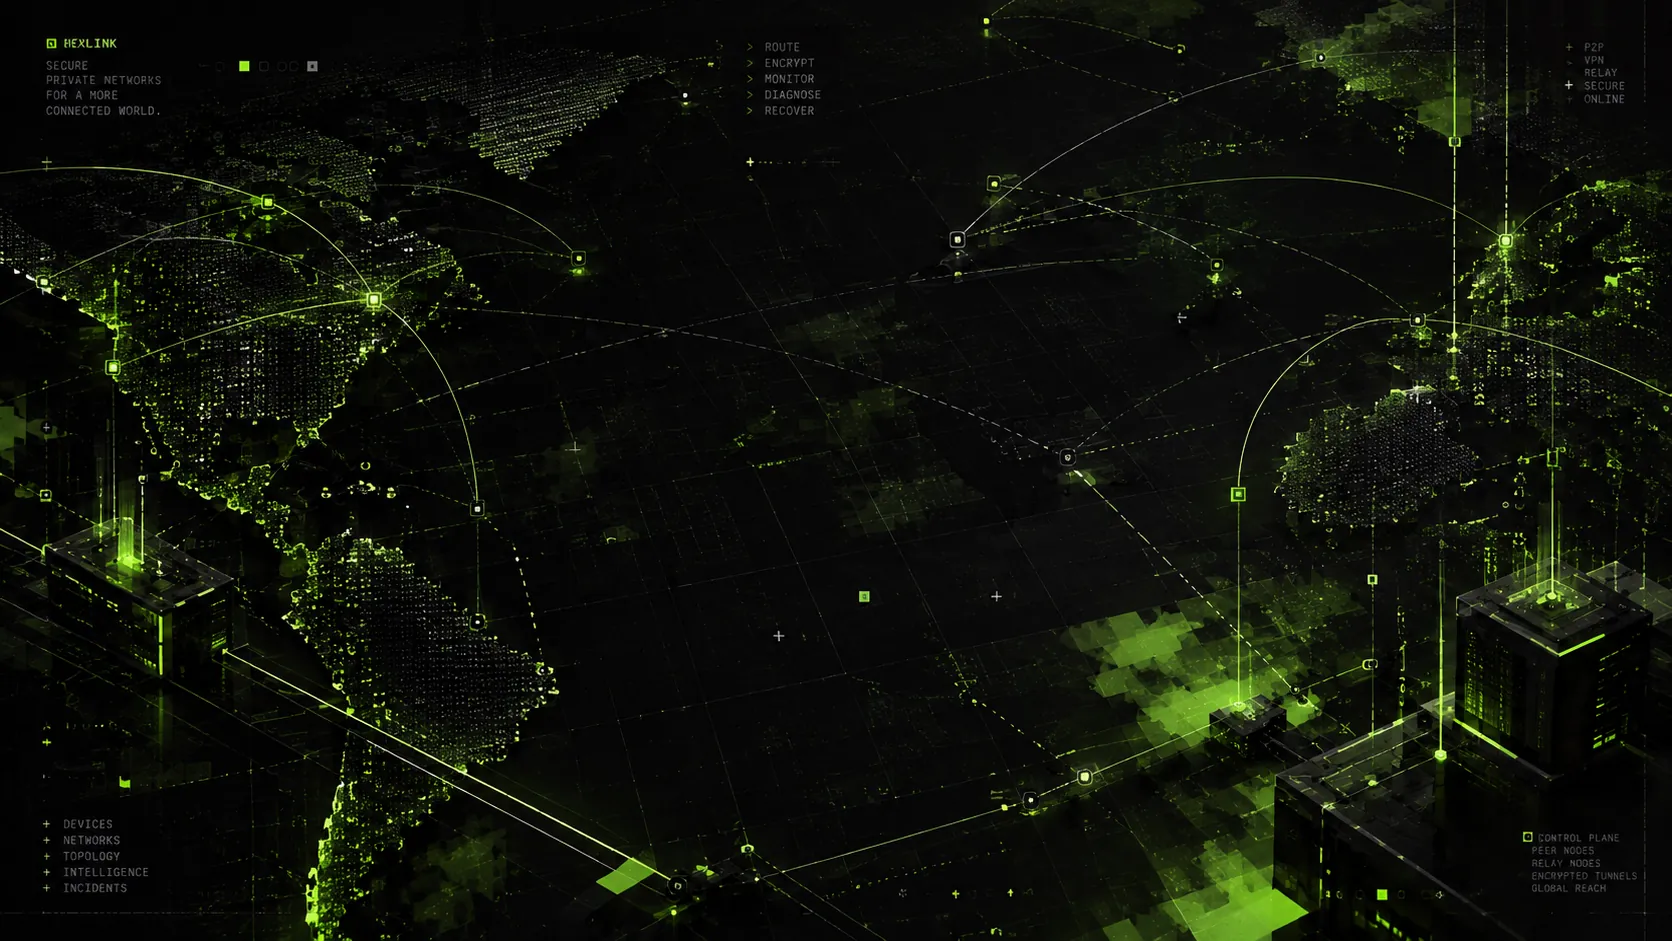
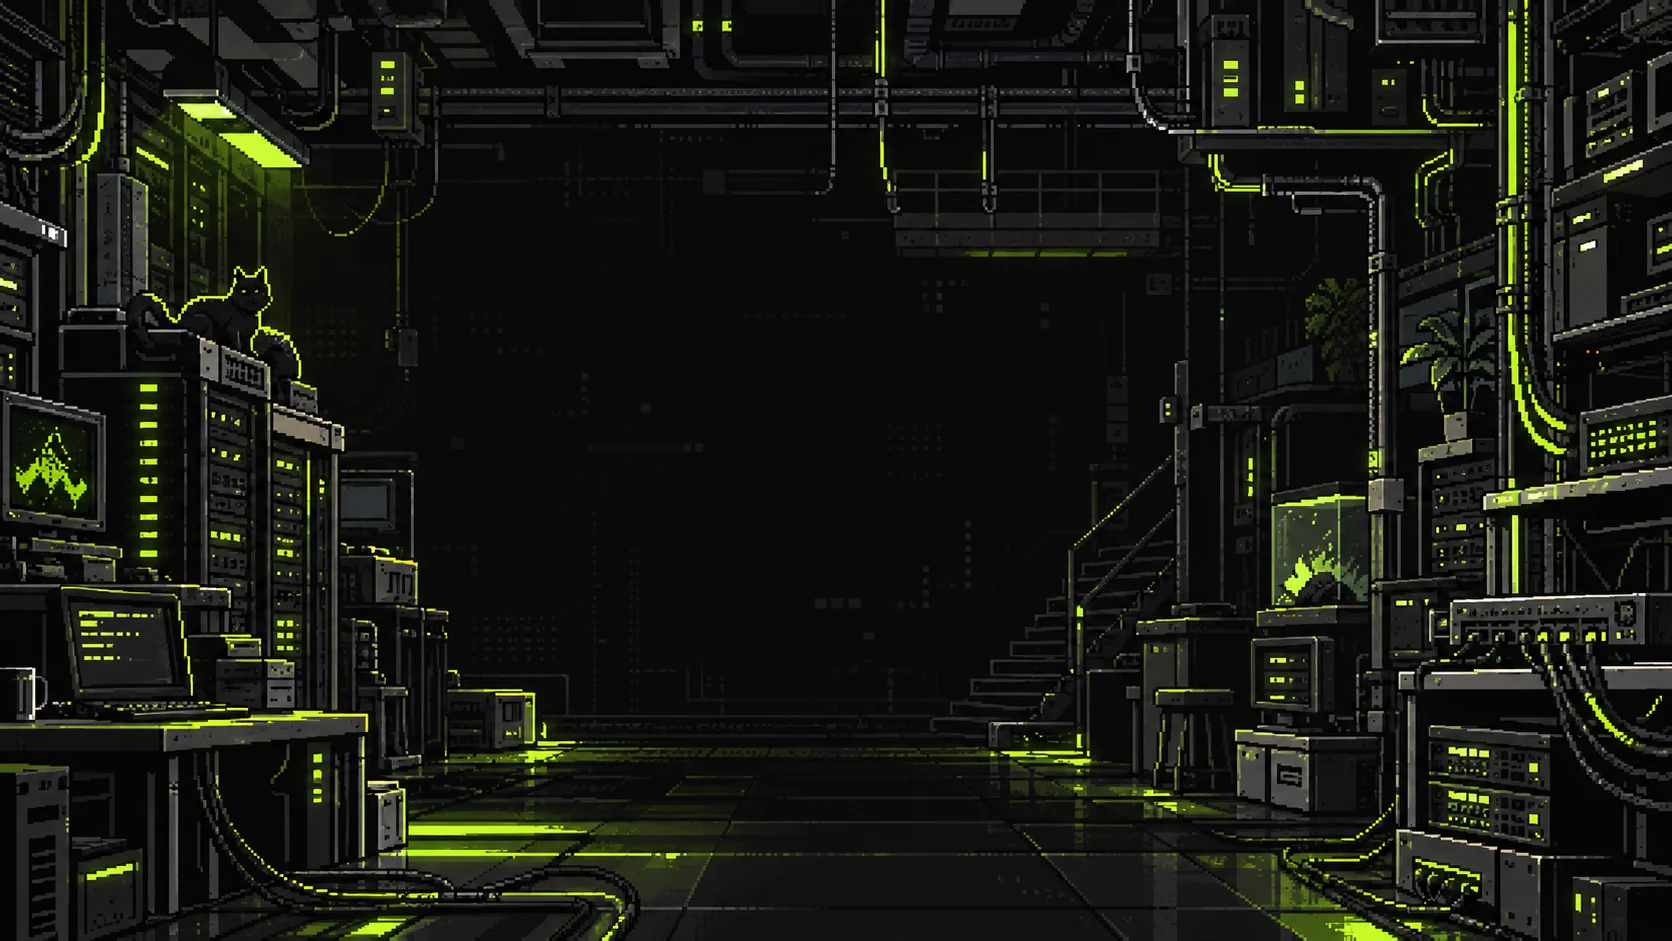
feat: add neo-brutalist styling, background assets, and layout shell

diff --git a/web/components/Shell.js b/web/components/Shell.js
@@ -3,8 +3,8 @@
 import Image from 'next/image';
 import Link from 'next/link';
 import { usePathname } from 'next/navigation';
-import { useEffect, useState } from 'react';
-import { Activity, CheckSquare, Cpu, LogOut, Menu, Network, Plus, Radio, ScrollText, Share2, Sparkles, Stethoscope, X } from 'lucide-react';
+import { useEffect, useRef, useState } from 'react';
+import { Activity, CheckSquare, Cpu, LogOut, Menu, Network, PanelLeftClose, PanelLeftOpen, Plus, Radio, ScrollText, Share2, Sparkles, Stethoscope, X } from 'lucide-react';
 import { useAuth } from './AuthProvider';
 import { useLiveStatus } from '@/hooks/useApi';
 import { Loading } from './ui';
@@ -47,13 +47,15 @@ const PAGE_NAMES = [
 ];
 
 // Real state of the Socket.IO channel — nothing here is decorative.
+const SIDEBAR_KEY = 'nexlink.sidebar';
+
 const LIVE = {
   live: { text: 'live', dot: 'bg-lime', hint: 'Socket.IO channel open: pages refresh on events' },
   connecting: { text: 'connecting', dot: 'border border-mid', hint: 'opening the live channel' },
   disconnected: { text: 'polling', dot: 'bg-amber', hint: 'live channel down: pages refresh on a timer' },
 };
 
-function NavList({ can, active, onNavigate }) {
+function NavList({ can, active, onNavigate, collapsed = false }) {
   return (
     <nav aria-label="Main" className="flex flex-col gap-5">
       {GROUPS.map((g, gi) => {
@@ -61,12 +63,15 @@ function NavList({ can, active, onNavigate }) {
         if (!items.length) return null;
         return (
           <div key={g.label || gi}>
-            {g.label && (
-              <div className="mb-2 flex items-center gap-2 px-2.5 font-pixel text-[8px] uppercase leading-none text-white/50">
-                <span aria-hidden className="h-px w-3 bg-white/30" />
-                {g.label}
-              </div>
-            )}
+            {g.label &&
+              (collapsed ? (
+                <div aria-hidden className="mx-auto mb-2 h-px w-6 bg-white/25" />
+              ) : (
+                <div className="mb-2 flex items-center gap-2 whitespace-nowrap px-2.5 font-pixel text-[8px] uppercase leading-none text-white/50">
+                  <span aria-hidden className="h-px w-3 bg-white/30" />
+                  {g.label}
+                </div>
+              ))}
             <ul className="flex flex-col">
               {items.map(({ href, label, icon: Icon, hint }) => {
                 const on = active(href);
@@ -75,15 +80,15 @@ function NavList({ can, active, onNavigate }) {
                     <Link
                       href={href}
                       onClick={onNavigate}
-                      title={hint}
+                      title={collapsed ? hint || label : hint}
                       aria-current={on ? 'page' : undefined}
-                      className={`flex h-9 items-center gap-3 px-2.5 font-pixel text-[9.5px] uppercase leading-none transition-colors duration-100 ${
-                        on ? 'bg-lime font-semibold text-ink' : 'text-white/65 hover:bg-white/[0.04] hover:text-white'
-                      }`}
+                      className={`flex h-9 items-center gap-3 whitespace-nowrap font-pixel text-[9.5px] uppercase leading-none transition-colors duration-100 ${
+                        collapsed ? 'justify-center px-0' : 'px-2.5'
+                      } ${on ? 'bg-lime font-semibold text-ink' : 'text-white/65 hover:bg-white/[0.04] hover:text-white'}`}
                     >
                       <Icon className="h-4 w-4 shrink-0" strokeWidth={on ? 2.25 : 1.75} aria-hidden />
-                      {label}
-                      {on && <span aria-hidden className="ml-auto font-mono text-[11px]">◂</span>}
+                      <span className={collapsed ? 'sr-only' : ''}>{label}</span>
+                      {on && !collapsed && <span aria-hidden className="ml-auto font-mono text-[11px]">◂</span>}
                     </Link>
                   </li>
                 );
@@ -96,14 +101,15 @@ function NavList({ can, active, onNavigate }) {
         <Link
           href="/activate"
           onClick={onNavigate}
+          title={collapsed ? 'add a device' : undefined}
           aria-current={active('/activate') || active('/setup') ? 'page' : undefined}
-          className={`flex h-10 items-center gap-3 border px-2.5 font-pixel text-[9.5px] uppercase leading-none transition-[transform,box-shadow,background-color] duration-100 ${
+          className={`flex h-10 items-center gap-3 whitespace-nowrap border ${collapsed ? 'justify-center px-0' : 'px-2.5'} font-pixel text-[9.5px] uppercase leading-none transition-[transform,box-shadow,background-color] duration-100 ${
             active('/activate') || active('/setup')
               ? 'border-lime bg-lime text-ink'
               : 'border-white bg-white text-ink hover:-translate-x-px hover:-translate-y-px hover:shadow-[3px_3px_0_0_var(--color-lime)]'
           }`}
         >
-          <Plus className="h-4 w-4" strokeWidth={2.25} aria-hidden /> add a device
+          <Plus className="h-4 w-4 shrink-0" strokeWidth={2.25} aria-hidden /> <span className={collapsed ? 'sr-only' : ''}>add a device</span>
         </Link>
       )}
     </nav>
@@ -120,11 +126,11 @@ function LiveChip({ live }) {
   );
 }
 
-function Brand() {
+function Brand({ collapsed = false }) {
   return (
-    <Link href="/" className="flex items-center gap-2.5 px-2" aria-label="NexLink overview">
-      <Image src="/logo-mark.png" alt="" width={30} height={30} priority className="h-[30px] w-[30px]" />
-      <span className="font-pixel text-[13px] uppercase leading-none">nexlink</span>
+    <Link href="/" className={`flex items-center gap-2.5 ${collapsed ? 'justify-center' : 'px-2'}`} aria-label="NexLink overview">
+      <Image src="/logo-mark.png" alt="" width={30} height={30} priority className="h-[30px] w-[30px] shrink-0" />
+      {!collapsed && <span className="whitespace-nowrap font-pixel text-[13px] uppercase leading-none">nexlink</span>}
     </Link>
   );
 }
@@ -150,6 +156,35 @@ export default function Shell({ children }) {
   const live = useLiveStatus(Boolean(user));
   const [drawer, setDrawer] = useState(false);
   useEffect(() => setDrawer(false), [pathname]);
+  // Desktop sidebar slides between full width and an icon rail; remembered per browser.
+  const [collapsed, setCollapsed] = useState(false);
+  useEffect(() => {
+    try {
+      setCollapsed(localStorage.getItem(SIDEBAR_KEY) === 'collapsed');
+    } catch {}
+  }, []);
+  function toggleSidebar() {
+    setCollapsed((c) => {
+      try {
+        localStorage.setItem(SIDEBAR_KEY, c ? 'open' : 'collapsed');
+      } catch {}
+      return !c;
+    });
+  }
+  // Ctrl/Cmd+B toggles the sidebar; Escape closes the mobile drawer.
+  useEffect(() => {
+    const onKey = (e) => {
+      if ((e.ctrlKey || e.metaKey) && e.key.toLowerCase() === 'b' && !e.target.closest?.('input, textarea, select, [contenteditable]')) {
+        e.preventDefault();
+        toggleSidebar();
+      }
+      if (e.key === 'Escape') setDrawer(false);
+    };
+    window.addEventListener('keydown', onKey);
+    return () => window.removeEventListener('keydown', onKey);
+  }, []);
+  // Swipe left on the open drawer to slide it away.
+  const touchX = useRef(null);
 
   if (loading || !user) {
     return (
@@ -165,12 +200,27 @@ export default function Shell({ children }) {
 
   return (
     <div className="flex min-h-screen">
-      <aside className="sticky top-0 hidden h-screen w-[232px] shrink-0 flex-col gap-7 border-r border-line bg-ink/80 px-3 py-5 backdrop-blur-md md:flex">
-        <Brand />
-        <div className="flex-1 overflow-y-auto scrollbar-thin">
-          <NavList can={can} active={active} />
+      <aside
+        id="sidebar"
+        className={`sticky top-0 hidden h-screen shrink-0 flex-col gap-7 overflow-hidden border-r border-line bg-ink/80 py-5 backdrop-blur-md transition-[width,padding] duration-200 ease-out motion-reduce:transition-none md:flex ${
+          collapsed ? 'w-[68px] px-2.5' : 'w-[232px] px-3'
+        }`}
+      >
+        <Brand collapsed={collapsed} />
+        <div className="flex-1 overflow-y-auto overflow-x-hidden scrollbar-thin">
+          <NavList can={can} active={active} collapsed={collapsed} />
         </div>
-        <div className="border-t border-line px-2 pt-3 font-pixel text-[7px] uppercase leading-relaxed text-white/55">wireguard · e2e encrypted</div>
+        <button
+          type="button"
+          onClick={toggleSidebar}
+          aria-controls="sidebar"
+          aria-expanded={!collapsed}
+          title={`${collapsed ? 'Expand' : 'Collapse'} sidebar (Ctrl+B)`}
+          className={`flex h-9 items-center gap-3 whitespace-nowrap border-t border-line pt-3 font-pixel text-[7px] uppercase leading-none text-white/55 hover:text-lime ${collapsed ? 'justify-center' : 'px-2'}`}
+        >
+          {collapsed ? <PanelLeftOpen className="h-4 w-4 shrink-0" aria-hidden /> : <PanelLeftClose className="h-4 w-4 shrink-0" aria-hidden />}
+          <span className={collapsed ? 'sr-only' : ''}>{collapsed ? 'expand sidebar' : 'collapse · wireguard e2e'}</span>
+        </button>
       </aside>
 
       {/* Small screens: top bar + full navigation drawer (every route stays reachable). */}
@@ -183,9 +233,26 @@ export default function Shell({ children }) {
           </button>
         </div>
       </div>
-      {drawer && (
-        <div className="fixed inset-0 z-50 bg-black/75 md:hidden" onClick={() => setDrawer(false)}>
-          <div className="enter flex h-full w-[min(300px,86vw)] flex-col gap-6 border-r border-line bg-ink/95 px-3 py-4 backdrop-blur-md" onClick={(e) => e.stopPropagation()}>
+      <div
+        className={`fixed inset-0 z-50 bg-black/75 transition-opacity duration-200 motion-reduce:transition-none md:hidden ${drawer ? 'opacity-100' : 'pointer-events-none opacity-0'}`}
+        onClick={() => setDrawer(false)}
+        aria-hidden={!drawer}
+        inert={!drawer}
+      >
+          <div
+            role="dialog"
+            aria-modal="true"
+            aria-label="Navigation"
+            className={`flex h-full w-[min(300px,86vw)] flex-col gap-6 border-r border-line bg-ink/95 px-3 py-4 backdrop-blur-md transition-transform duration-200 ease-out motion-reduce:transition-none ${
+              drawer ? 'translate-x-0' : '-translate-x-full'
+            }`}
+            onClick={(e) => e.stopPropagation()}
+            onTouchStart={(e) => (touchX.current = e.touches[0].clientX)}
+            onTouchEnd={(e) => {
+              if (touchX.current != null && e.changedTouches[0].clientX - touchX.current < -60) setDrawer(false);
+              touchX.current = null;
+            }}
+          >
             <div className="flex items-center justify-between">
               <Brand />
               <button onClick={() => setDrawer(false)} className="border border-line p-2.5 text-white/70 hover:text-white" aria-label="Close navigation">
@@ -199,13 +266,23 @@ export default function Shell({ children }) {
               <UserBox user={user} logout={logout} />
             </div>
           </div>
-        </div>
-      )}
+      </div>
 
       <div className="min-w-0 flex-1">
         {/* Desktop top bar: where you are, the live channel's real state, who you are. */}
         <div className="sticky top-0 z-30 hidden h-12 items-center justify-between border-b border-line bg-ink/75 px-10 backdrop-blur-md md:flex">
           <div className="flex items-center gap-2 font-pixel text-[8px] uppercase leading-none text-white/50">
+            <button
+              type="button"
+              onClick={toggleSidebar}
+              aria-controls="sidebar"
+              aria-expanded={!collapsed}
+              aria-label={`${collapsed ? 'Expand' : 'Collapse'} sidebar`}
+              title={`${collapsed ? 'Expand' : 'Collapse'} sidebar (Ctrl+B)`}
+              className="-ml-4 mr-2 border border-line p-1.5 text-white/70 hover:border-lime hover:text-lime"
+            >
+              {collapsed ? <PanelLeftOpen className="h-4 w-4" aria-hidden /> : <PanelLeftClose className="h-4 w-4" aria-hidden />}
+            </button>
             <span>nexlink</span>
             <span aria-hidden>/</span>
             <span className="text-white">{page}</span>

diff --git a/web/app/globals.css b/web/app/globals.css
@@ -180,15 +180,17 @@ body::before {
     linear-gradient(90deg, var(--grid-line) 1px, transparent 1px) 0 0 / 120px 120px,
     linear-gradient(var(--color-grid) 1px, transparent 1px) 0 0 / 24px 24px,
     linear-gradient(90deg, var(--color-grid) 1px, transparent 1px) 0 0 / 24px 24px,
-    /* scrim keeps text contrast over the bright parts of the map */
-    linear-gradient(180deg, rgb(15 15 15 / 0.72) 0%, rgb(15 15 15 / 0.6) 50%, rgb(15 15 15 / 0.78) 100%),
-    image-set(url('/bg-main.webp') type('image/webp'), url('/bg-png.png') type('image/png')) center / cover no-repeat,
+    /* scrim keeps text contrast over the lit server racks at the edges */
+    linear-gradient(180deg, rgb(15 15 15 / 0.66) 0%, rgb(15 15 15 / 0.52) 50%, rgb(15 15 15 / 0.74) 100%),
+    image-set(url('/bg-main.webp') type('image/webp'), url('/main-bg.png') type('image/png')) center / cover no-repeat,
     var(--background);
+  /* the scene is pixel art: keep its pixels square when scaled up */
+  image-rendering: pixelated;
 }
 body:has(.backdrop-photo)::before {
   background:
     linear-gradient(100deg, rgb(15 15 15 / 0.86) 0%, rgb(15 15 15 / 0.6) 45%, rgb(15 15 15 / 0.35) 100%),
-    image-set(url('/bg-main.webp') type('image/webp'), url('/bg-png.png') type('image/png')) center / cover no-repeat,
+    image-set(url('/bg-main.webp') type('image/webp'), url('/main-bg.png') type('image/png')) center / cover no-repeat,
     var(--background);
 }
 
